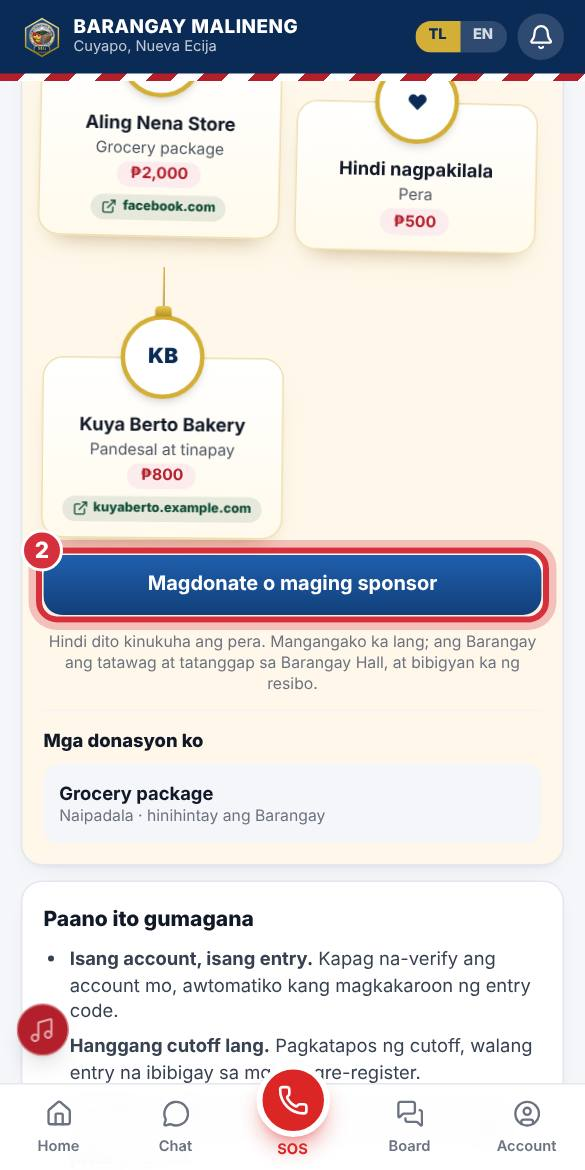
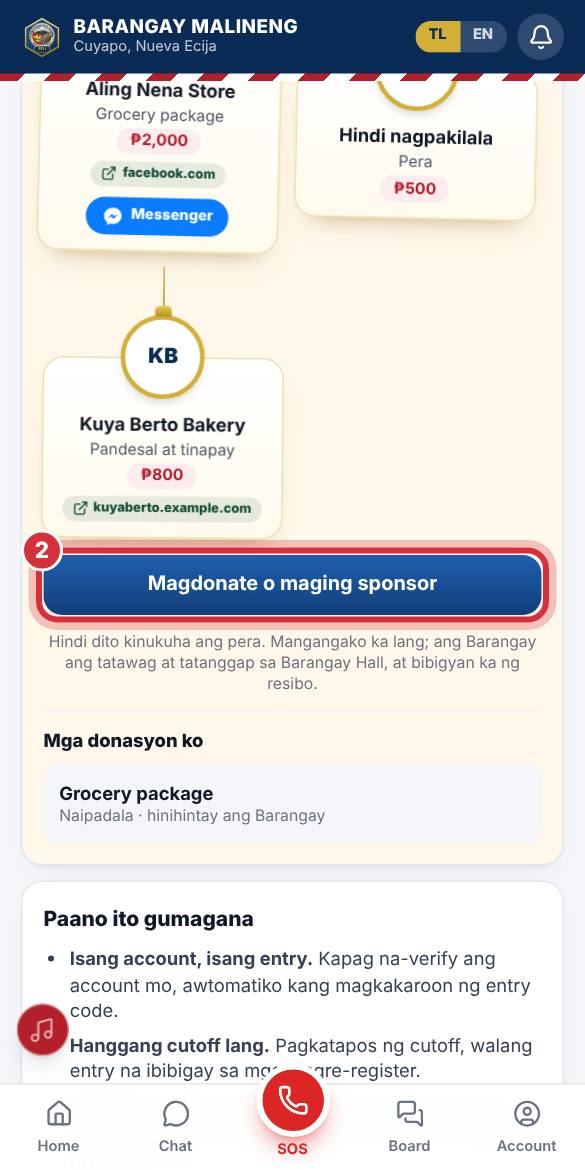
Sponsors: Messenger button for sponsors whose link is a Facebook page
Claude-Session: https://claude.ai/code/session_013F6BoHnbdQ1Ng6Eh2JznKS

diff --git a/malineng-web/src/components/RaffleSponsors.tsx b/malineng-web/src/components/RaffleSponsors.tsx
@@ -14,7 +14,7 @@ import { useToast } from "@/components/Toast";
 import { LogoPicker } from "@/components/LogoPicker";
 import { useXmas } from "@/lib/raffle";
 import { XmasGarland, XmasStar } from "@/components/Xmas";
-import { linkHost } from "@/lib/raffleDonations";
+import { linkHost, messengerLink } from "@/lib/links";
 
 /** What the donor reads about each step of their pledge. */
 const DONOR_LABEL = {
@@ -33,6 +33,26 @@ function SponsorBox({ s, className, children }: { s: { name: string; link?: stri
   return (
     <a href={s.link} target="_blank" rel="noopener noreferrer nofollow" aria-label={`Buksan ang ${s.name} (${linkHost(s.link)})`} className={`${className} block active:scale-[0.98]`}>
       {children}
+    </a>
+  );
+}
+
+/** "Messenger" button for a sponsor whose link is a Facebook page: opens their chat (m.me/page-name) in a new tab. */
+function MessengerButton({ name, link, className = "" }: { name: string; link?: string; className?: string }) {
+  const m = link ? messengerLink(link) : "";
+  if (!m) return null;
+  return (
+    <a
+      href={m}
+      target="_blank"
+      rel="noopener noreferrer nofollow"
+      aria-label={`Mag-chat sa ${name} sa Messenger`}
+      className={`inline-flex items-center gap-1.5 rounded-full bg-[#0A7CFF] px-3 py-1.5 text-[0.7rem] font-extrabold text-white shadow-sm active:scale-95 ${className}`}
+    >
+      <svg viewBox="0 0 24 24" className="h-4 w-4 fill-white" aria-hidden>
+        <path d="M12 2C6.5 2 2 6.2 2 11.5c0 2.9 1.4 5.5 3.6 7.2V22l3.3-1.8c.9.2 1.9.4 3.1.4 5.5 0 10-4.2 10-9.5S17.5 2 12 2zm1 12.8-2.5-2.7-4.9 2.7 5.4-5.7 2.6 2.7 4.8-2.7-5.4 5.7z" />
+      </svg>
+      Messenger
     </a>
   );
 }
@@ -90,7 +110,8 @@ export function RaffleSponsors({ full = false }: { full?: boolean }) {
       ) : (
         <>
           {main.map((s) => (
-            <SponsorBox key={s.id} s={s} className={`relative flex items-center gap-3 rounded-2xl bg-gradient-to-b from-gold-light to-[#EAD27A] p-3 text-[#3B2E05] shadow-[0_8px_18px_-10px_rgba(120,80,0,.6)] ${xmas ? "mt-5 pt-8 ring-1 ring-[#E0B94A]" : ""}`}>
+            <div key={s.id} className={`relative ${xmas ? "mt-5" : ""}`}>
+            <SponsorBox s={s} className={`relative flex items-center gap-3 rounded-2xl bg-gradient-to-b from-gold-light to-[#EAD27A] p-3 text-[#3B2E05] shadow-[0_8px_18px_-10px_rgba(120,80,0,.6)] ${xmas ? "pt-8 ring-1 ring-[#E0B94A]" : ""} ${messengerLink(s.link ?? "") ? "pr-28" : ""}`}>
               {xmas && <XmasStar className="absolute -top-4 left-1/2 h-9 w-9 -translate-x-1/2 fill-[#B3202B] drop-shadow-[0_2px_0_rgba(0,0,0,.25)]" />}
               <SponsorMark s={s} xmas={xmas} className="h-14 w-14 rounded-2xl bg-white text-lg" />
               <span className="min-w-0">
@@ -100,6 +121,8 @@ export function RaffleSponsors({ full = false }: { full?: boolean }) {
                 <LinkHint link={s.link} dark />
               </span>
             </SponsorBox>
+            <MessengerButton name={s.name} link={s.link} className="absolute bottom-3 right-3" />
+            </div>
           ))}
           {(full ? others : others.slice(0, 4)).length > 0 && (
             <>
@@ -111,18 +134,21 @@ export function RaffleSponsors({ full = false }: { full?: boolean }) {
                     <li key={s.id} className={i % 2 ? "pt-2" : ""}>
                       <div className="xmas-sway" style={{ animationDelay: `-${(i * 1.3) % 5}s` }}>
                         <span className={`mx-auto block w-px bg-gradient-to-b from-[#D9B53F] to-[#9A7B12] ${i % 2 ? "h-16" : "h-9"}`} aria-hidden />
+                        <div className="relative">
                         <SponsorBox s={s} className="relative flex flex-col items-center">
                           <span className="relative z-10 -mb-8">
                             <span className="absolute -top-1.5 left-1/2 h-2 w-3 -translate-x-1/2 rounded-t-[3px] bg-gradient-to-b from-[#E8C85A] to-[#B8921E]" aria-hidden />
                             <SponsorMark s={s} xmas className="h-16 w-16 bg-white text-base" />
                           </span>
-                          <span className="flex w-full flex-col items-center gap-0.5 rounded-2xl border border-[#EEDFB0] bg-gradient-to-b from-white to-[#FFFAEC] px-2 pb-3 pt-10 text-center shadow-[0_10px_18px_-12px_rgba(120,80,0,.55)]">
+                          <span className={`flex w-full flex-col items-center gap-0.5 rounded-2xl border border-[#EEDFB0] bg-gradient-to-b from-white to-[#FFFAEC] px-2 pt-10 text-center shadow-[0_10px_18px_-12px_rgba(120,80,0,.55)] ${messengerLink(s.link ?? "") ? "pb-12" : "pb-3"}`}>
                             <b className="line-clamp-1 w-full text-sm">{s.name}</b>
                             <span className="line-clamp-1 w-full text-xs text-gray-600">{s.what}</span>
                             {s.amount > 0 && <span className="rounded-full bg-[#FDECEE] px-2.5 py-0.5 text-xs font-bold text-[#B3202B]">{formatPeso(s.amount).replace(".00", "")}</span>}
                             <LinkHint link={s.link} dark />
                           </span>
                         </SponsorBox>
+                        <MessengerButton name={s.name} link={s.link} className="absolute bottom-3 left-1/2 -translate-x-1/2" />
+                        </div>
                       </div>
                     </li>
                   ) : (
@@ -134,6 +160,7 @@ export function RaffleSponsors({ full = false }: { full?: boolean }) {
                         {s.amount > 0 && <span className="text-xs font-bold text-brand">{formatPeso(s.amount).replace(".00", "")}</span>}
                         <LinkHint link={s.link} />
                       </SponsorBox>
+                      <MessengerButton name={s.name} link={s.link} className="mt-1.5 w-full justify-center" />
                     </li>
                   ),
                 )}

diff --git a/malineng-web/src/lib/links.ts b/malineng-web/src/lib/links.ts
@@ -1,0 +1,50 @@
+/**
+ * Cleans a pasted Facebook page or website. "facebook.com/omega" becomes "https://facebook.com/omega".
+ * Only http and https links with a real host are kept (never javascript: or anything else); anything else gives "".
+ */
+export function normalizeLink(raw: string): string {
+  const t = raw.trim().slice(0, 300);
+  if (!t) return "";
+  const withScheme = /^https?:\/\//i.test(t) ? t : /^[a-z][a-z0-9+.-]*:/i.test(t) ? "" : `https://${t}`;
+  if (!withScheme) return "";
+  try {
+    const u = new URL(withScheme);
+    return (u.protocol === "https:" || u.protocol === "http:") && u.hostname.includes(".") ? u.toString() : "";
+  } catch {
+    return "";
+  }
+}
+
+/** "https://www.facebook.com/omega" -> "facebook.com" (shown under the sponsor so people know where the tap goes). */
+export function linkHost(link: string): string {
+  try {
+    return new URL(link).hostname.replace(/^www\./, "");
+  } catch {
+    return "";
+  }
+}
+
+/** Facebook paths that are not a page's own name, so there is no Messenger chat to open. */
+const NOT_A_PAGE = new Set(["profile.php", "groups", "events", "watch", "share", "sharer", "sharer.php", "story.php", "permalink.php", "photo", "photo.php", "photos", "video", "videos", "reel", "marketplace", "gaming", "login", "dialog", "plugins", "hashtag", "people", "public", "stories", "l.php"]);
+
+/**
+ * The Messenger chat of a Facebook page: "https://facebook.com/omegaice" becomes "https://m.me/omegaice".
+ * Returns "" when the link is a website, a personal profile (profile.php?id=...), a group, a post or anything
+ * else that has no page name, so no Messenger button is shown for it.
+ */
+export function messengerLink(link: string): string {
+  try {
+    const u = new URL(link);
+    const host = u.hostname.replace(/^(www|m|web|mbasic)\./, "").toLowerCase();
+    if (host !== "facebook.com" && host !== "fb.com") return "";
+    const parts = u.pathname.split("/").filter(Boolean);
+    if (parts.length === 0) return "";
+    let name = parts[0];
+    // Old style page address: /pages/Business-Name/123456789 (the number is the page).
+    if (name === "pages") name = parts.slice(1).reverse().find((x) => /^\d{5,}$/.test(x)) ?? "";
+    if (!name || NOT_A_PAGE.has(name.toLowerCase()) || !/^[A-Za-z0-9.\-]{3,100}$/.test(name)) return "";
+    return `https://m.me/${name}`;
+  } catch {
+    return "";
+  }
+}

diff --git a/malineng-web/src/lib/raffleDonations.ts b/malineng-web/src/lib/raffleDonations.ts
@@ -49,31 +49,8 @@ export interface Sponsor {
   createdAt?: Timestamp;
 }
 
-/**
- * Cleans a pasted Facebook page or website. "facebook.com/omega" becomes "https://facebook.com/omega".
- * Only http and https links with a real host are kept (never javascript: or anything else); anything else gives "".
- */
-export function normalizeLink(raw: string): string {
-  const t = raw.trim().slice(0, 300);
-  if (!t) return "";
-  const withScheme = /^https?:\/\//i.test(t) ? t : /^[a-z][a-z0-9+.-]*:/i.test(t) ? "" : `https://${t}`;
-  if (!withScheme) return "";
-  try {
-    const u = new URL(withScheme);
-    return (u.protocol === "https:" || u.protocol === "http:") && u.hostname.includes(".") ? u.toString() : "";
-  } catch {
-    return "";
-  }
-}
-
-/** "https://www.facebook.com/omega" -> "facebook.com" (shown under the sponsor so people know where the tap goes). */
-export function linkHost(link: string): string {
-  try {
-    return new URL(link).hostname.replace(/^www\./, "");
-  } catch {
-    return "";
-  }
-}
+export { linkHost, messengerLink, normalizeLink } from "@/lib/links";
+import { normalizeLink } from "@/lib/links";
 
 export const DONATION_STATUS_LABEL: Record<DonationStatus, string> = {
   new: "Bago",
